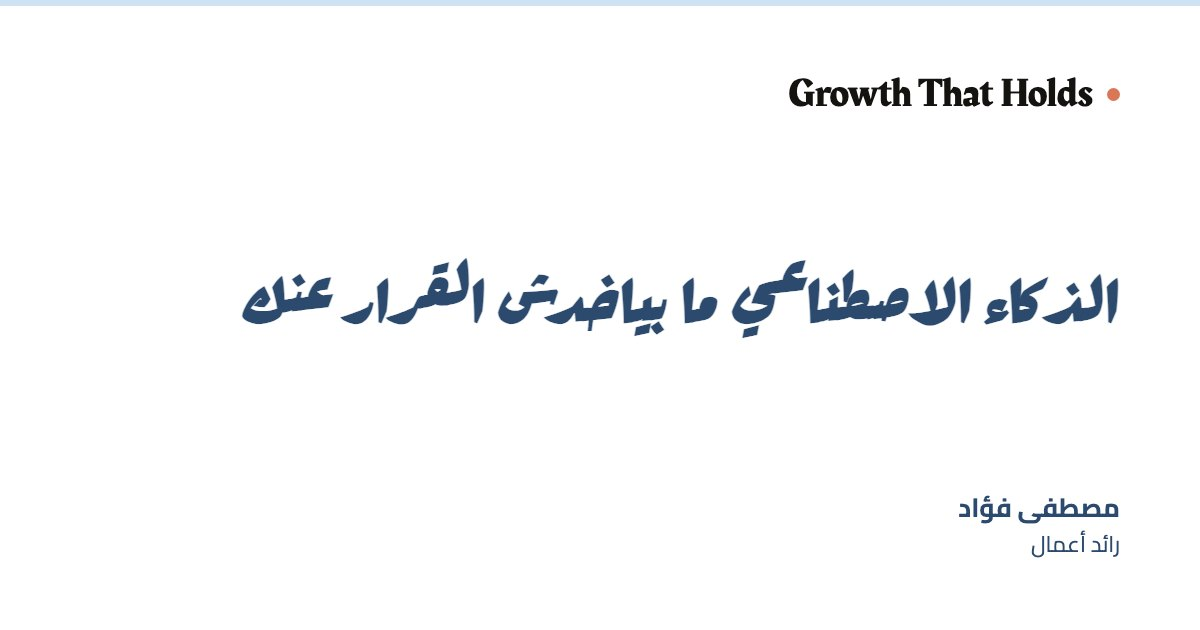
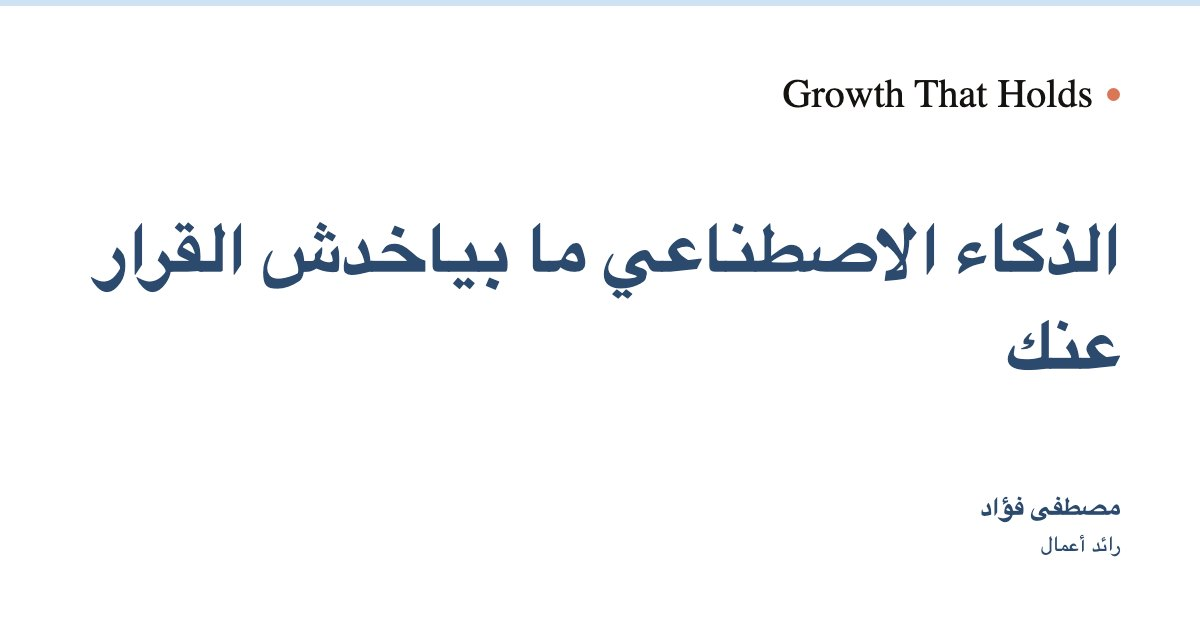
Arabic series and episode titles

Changed region(s): [[0.0617, 0.3619, 0.9558, 0.6032], [0.6475, 0.1206, 0.925, 0.181], [0.8017, 0.7841, 0.9558, 0.8746]]

diff --git a/lib/series.ts b/lib/series.ts
@@ -4,7 +4,7 @@
  */
 export const SERIES = {
   'ai-application': {
-    title: 'AI Application for Startups & SME',
+    title: 'الذكاء الاصطناعي في الشركات الناشئة والصغيرة',
     total: 10,
     description: null, // null = fall back to episode 0's excerpt on the hub and hero
   },

diff --git a/content/articles/2026-09-06-execution-layer.md b/content/articles/2026-09-06-execution-layer.md
@@ -1,5 +1,5 @@
 ---
-title: " AI Application Ep 05"
+title: "طبقة التنفيذ"
 en_slug: execution-layer
 subtitle: الفرق بين الـ API و الـ connector و الـ MCP, و بين الـ cron و الـ
   webhook, و اللي اتبنى فعلًا بالأرقام

diff --git a/content/articles/2026-08-28-crm-behaviour-segments.md b/content/articles/2026-08-28-crm-behaviour-segments.md
@@ -1,5 +1,5 @@
 ---
-title: AI applications - EP 03
+title: "تقسيم العملاء على محورين"
 en_slug: crm-behaviour-segments
 subtitle: مين أكلمه بكرة الصبح, و ليه هو بالذات
 date: 2026-08-28

diff --git a/content/articles/2026-08-25-information-layer-results.md b/content/articles/2026-08-25-information-layer-results.md
@@ -1,5 +1,5 @@
 ---
-title: AI applications - EP 02
+title: "طبقة المعلومات"
 en_slug: information-layer-results
 subtitle: الرقم اللي كلّفني شهر, بقى شريط في الشاشة
 date: 2026-08-25

diff --git a/content/articles/2026-08-15-ai-application.md b/content/articles/2026-08-15-ai-application.md
@@ -1,5 +1,5 @@
 ---
-title: AI Application For Startups & SME
+title: "تطبيق الذكاء الاصطناعي: البداية"
 en_slug: ai-application
 date: "2026-08-15"
 date_ar: ١٥ أغسطس ٢٠٢٦

diff --git a/content/articles/2026-08-18-conversion-window.md b/content/articles/2026-08-18-conversion-window.md
@@ -1,5 +1,5 @@
 ---
-title: AI applications - EP 01
+title: "نافذة التحويل"
 en_slug: conversion-window
 subtitle: سؤال واحد, و شغل شهر
 date: 2026-08-18
